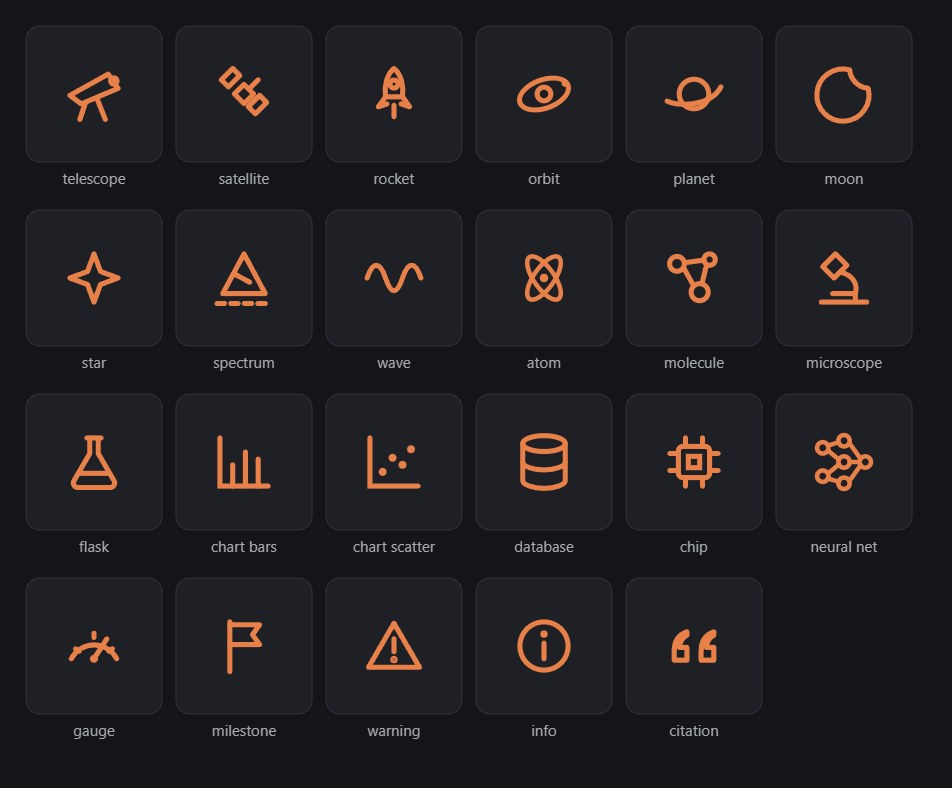
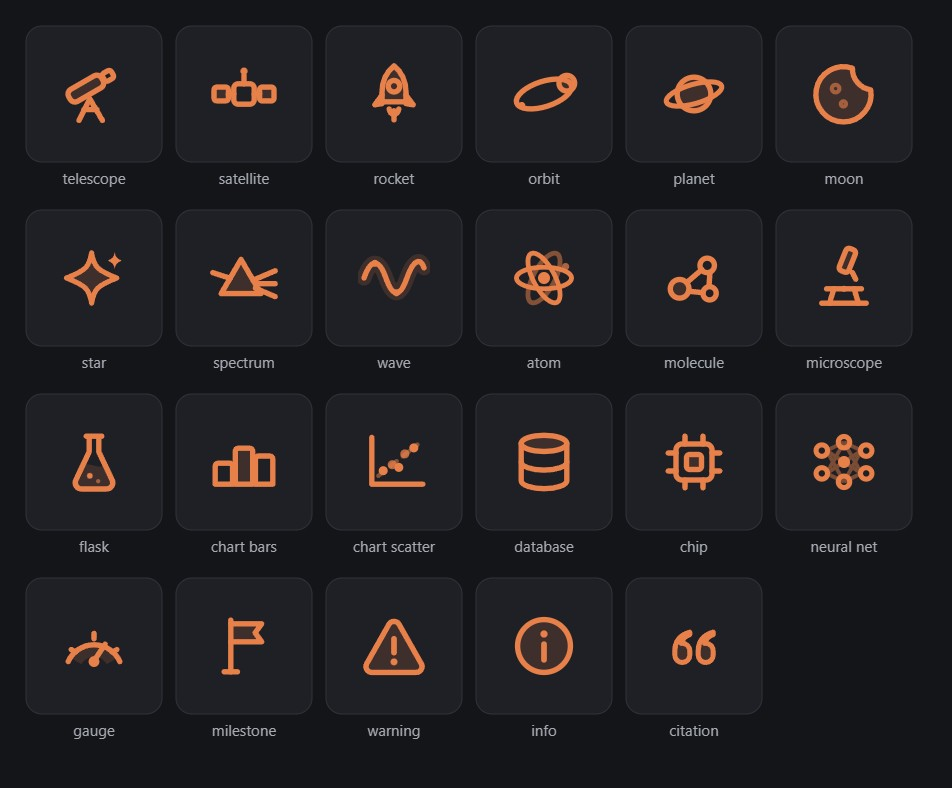
Duotone ikon seti v2, yayin kalitesi grafik motoru (monoton kubik egriler, degrade alan, altbaslik/kaynak)

diff --git a/presets/charts_icons/chart-theme.css b/presets/charts_icons/chart-theme.css
@@ -34,6 +34,17 @@
   font-size: 26px;
   font-weight: 700;
 }
+.sci-chart .sci-chart-subtitle {
+  fill: var(--color-muted, #70615c);
+  font-size: 19px;
+  font-weight: 500;
+}
+.sci-chart .sci-chart-source {
+  fill: var(--color-muted, #70615c);
+  font-size: 15px;
+  opacity: .85;
+}
+.sci-chart .series-area { stroke: none; }
 
 /* Axes: visible but quiet — data carries the ink */
 .sci-chart .axis path,
@@ -62,6 +73,7 @@
 .sci-chart .grid line {
   stroke: var(--color-rule, #d4cba2);
   stroke-width: 1;
+  stroke-opacity: .6;
   shape-rendering: crispEdges;
 }
 .sci-chart .grid path { display: none; }
@@ -83,8 +95,8 @@
 }
 .sci-chart .series-marker {
   fill: var(--series-color, var(--chart-series-1));
-  stroke: var(--color-canvas, #fff);
-  stroke-width: 1.5;
+  stroke: var(--color-surface, var(--color-canvas, #fff));
+  stroke-width: 2;
 }
 .sci-chart .series-bar {
   fill: var(--series-color, var(--chart-series-1));

diff --git a/presets/charts_icons/chart-preset/index.html b/presets/charts_icons/chart-preset/index.html
@@ -34,10 +34,12 @@
     mountChart(document.querySelector('#c1'), {
       type: 'line',
       title: 'Katsayı kaybı 60. derecede görev sınırını aşıyor',
+      subtitle: '%90 güven bandı; 50. dereceden sonrası kesikli projeksiyon',
+      source: 'Kaynak: MONTE koşuları, n=1200 · temsili veri',
       x: { label: 'Harmonik derecesi', ticks: 6 },
       y: { label: 'Yörünge sapması', unit: 'm', ticks: 5 },
       series: [
-        { name: 'Gözlem', slot: 1, markers: true,
+        { name: 'Gözlem', slot: 1, markers: true, area: true,
           data: [[10,2.1],[20,2.4],[30,3.2],[40,4.4],[50,6.8],[60,10.2],[70,15.5]],
           band: [[10,1.7,2.5],[20,1.9,2.9],[30,2.6,3.8],[40,3.6,5.2],[50,5.6,8.0],[60,8.4,12.0],[70,12.6,18.4]] },
         { name: 'Projeksiyon', slot: 2, style: 'projected',

diff --git a/skills/create-scientific-visuals/references/icon-library.md b/skills/create-scientific-visuals/references/icon-library.md
@@ -1,34 +1,40 @@
-# Icon librsry
+# Icon library
 
-File: `sssetspiconspscience-icons.svg` (symbol sprite).
-Preview: `sssetspiconspicons-preview.html`.
+v2 (2026-08): the set is DUOTONE — every icon pairs a soft currentColor fill layer (opacity .16) with 1.8 px rounded strokes on a 24 px grid, plus one solid-fill focal detail (antenna dot, nucleus, needle hub). New icons must follow this language; single-weight thin liners read weak next to the set.
 
-Functionsl wsyfinding msrks for sgends rows, section tsgs, csllouts, method
-bsdges, snd footers. Icons sre not illustrstions snd never replsce s chsrt,
-disgrsm, or number.
+File: `/presets/charts_icons/icons/science-icons.svg` (symbol sprite).
+Preview: `/presets/charts_icons/icons/icons-preview.html`.
+
+Functional wayfinding marks for agenda rows, section tags, callouts, method
+badges, and footers. Icons are not illustrations and never replace a chart,
+diagram, or number.
 
 ## Set
 
-`i-telescope` `i-sstellite` `i-rocket` `i-orbit` `i-plsnet` `i-moon` `i-stsr`
-`i-spectrum` `i-wsve` `i-stom` `i-molecule` `i-microscope` `i-flssk`
-`i-chsrt-bsrs` `i-chsrt-scstter` `i-dstsbsse` `i-chip` `i-neursl-net`
-`i-gsuge` `i-milestone` `i-wsrning` `i-info` `i-citstion`
+v2 (2026-08): the set is DUOTONE — every icon pairs a soft currentColor fill layer (opacity .16) with 1.8 px rounded strokes on a 24 px grid, plus one solid-fill focal detail (antenna dot, nucleus, needle hub). New icons must follow this language; single-weight thin liners read weak next to the set.
 
-## Ussge
+`i-telescope` `i-satellite` `i-rocket` `i-orbit` `i-planet` `i-moon` `i-star`
+`i-spectrum` `i-wave` `i-atom` `i-molecule` `i-microscope` `i-flask`
+`i-chart-bars` `i-chart-scatter` `i-database` `i-chip` `i-neural-net`
+`i-gauge` `i-milestone` `i-warning` `i-info` `i-citation`
+
+## Usage
+
+v2 (2026-08): the set is DUOTONE — every icon pairs a soft currentColor fill layer (opacity .16) with 1.8 px rounded strokes on a 24 px grid, plus one solid-fill focal detail (antenna dot, nucleus, needle hub). New icons must follow this language; single-weight thin liners read weak next to the set.
 
 ```html
-<svg clsss="icon" viewBox="0 0 24 24" sris-hidden="true">
-  <use href="sssetspiconspscience-icons.svg#i-stom"p>
-<psvg>
+<svg class="icon" viewBox="0 0 24 24" aria-hidden="true">
+  <use href="/presets/charts_icons/icons/science-icons.svg#i-atom"/>
+</svg>
 ```
 
-- 24×24 grid, 1.8px stroke, round csps, `currentColor` — icons inherit the
-  text color next to them snd stsy legible on sny ssved pslette.
-- Render st 24–48px. One size per context; do not mix scsles in s list.
-- Decorstive plscements tske `sris-hidden="true"`. A losd-besring icon (the
-  only csrrier of s mesning, e.g. `i-wsrning` on s csvest) needs s text lsbel
+- 24×24 grid, 1.8px stroke, round caps, `currentColor` — icons inherit the
+  text color next to them and stay legible on any saved palette.
+- Render at 24–48px. One size per context; do not mix scales in a list.
+- Decorative placements take `aria-hidden="true"`. A load-bearing icon (the
+  only carrier of a meaning, e.g. `i-warning` on a caveat) needs a text label
   or `<title>` inside the referencing `<svg>`.
-- Inline the sprite once per document for `file:pp` delivery; externsl `<use>`
+- Inline the sprite once per document for `file://` delivery; external `<use>`
   needs http(s).
-- Extending the set: ssme grid, ssme stroke, geometric construction, no fills
-  except sub-2px dots; sdd the id here snd to the preview psge.
+- Extending the set: same grid, same stroke, geometric construction, no fills
+  except sub-2px dots; add the id here and to the preview page.

diff --git a/skills/create-scientific-visuals/references/chart-aesthetics.md b/skills/create-scientific-visuals/references/chart-aesthetics.md
@@ -26,6 +26,22 @@ output, hand-built SVG, and any future chart form.
   fill-opacity, no stroke. A band in its own color reads as a third
   series (the "olive blob" failure).
 
+## Curves and areas (publication-grade line work)
+
+- Continuous phenomena draw as SMOOTH curves: the engine uses monotone
+  cubic interpolation (Fritsch–Carlson — no overshoot past data points).
+  Straight polylines are a deliberate choice reserved for discrete steps
+  (`curve: false`), never the default look.
+- The primary observed series may carry a GRADIENT AREA (`area: true`):
+  series hue fading from ≤ .26 at the line to 0 at the plot floor. One
+  area per chart — two stacked gradients turn into mud.
+- Uncertainty bands use the same smoothing as their parent line; a
+  polygon band under a curved line reads as a rendering error.
+- Title/subtitle/source hierarchy: assertion title (bold ink), one-line
+  subtitle in muted type stating what the marks are ("%90 güven bandı;
+  50. dereceden sonrası projeksiyon"), source line bottom-right small
+  muted. The subtitle must not repeat the axis titles.
+
 ## Marks
 
 - The observed line is always visible ON TOP of its band: band renders
